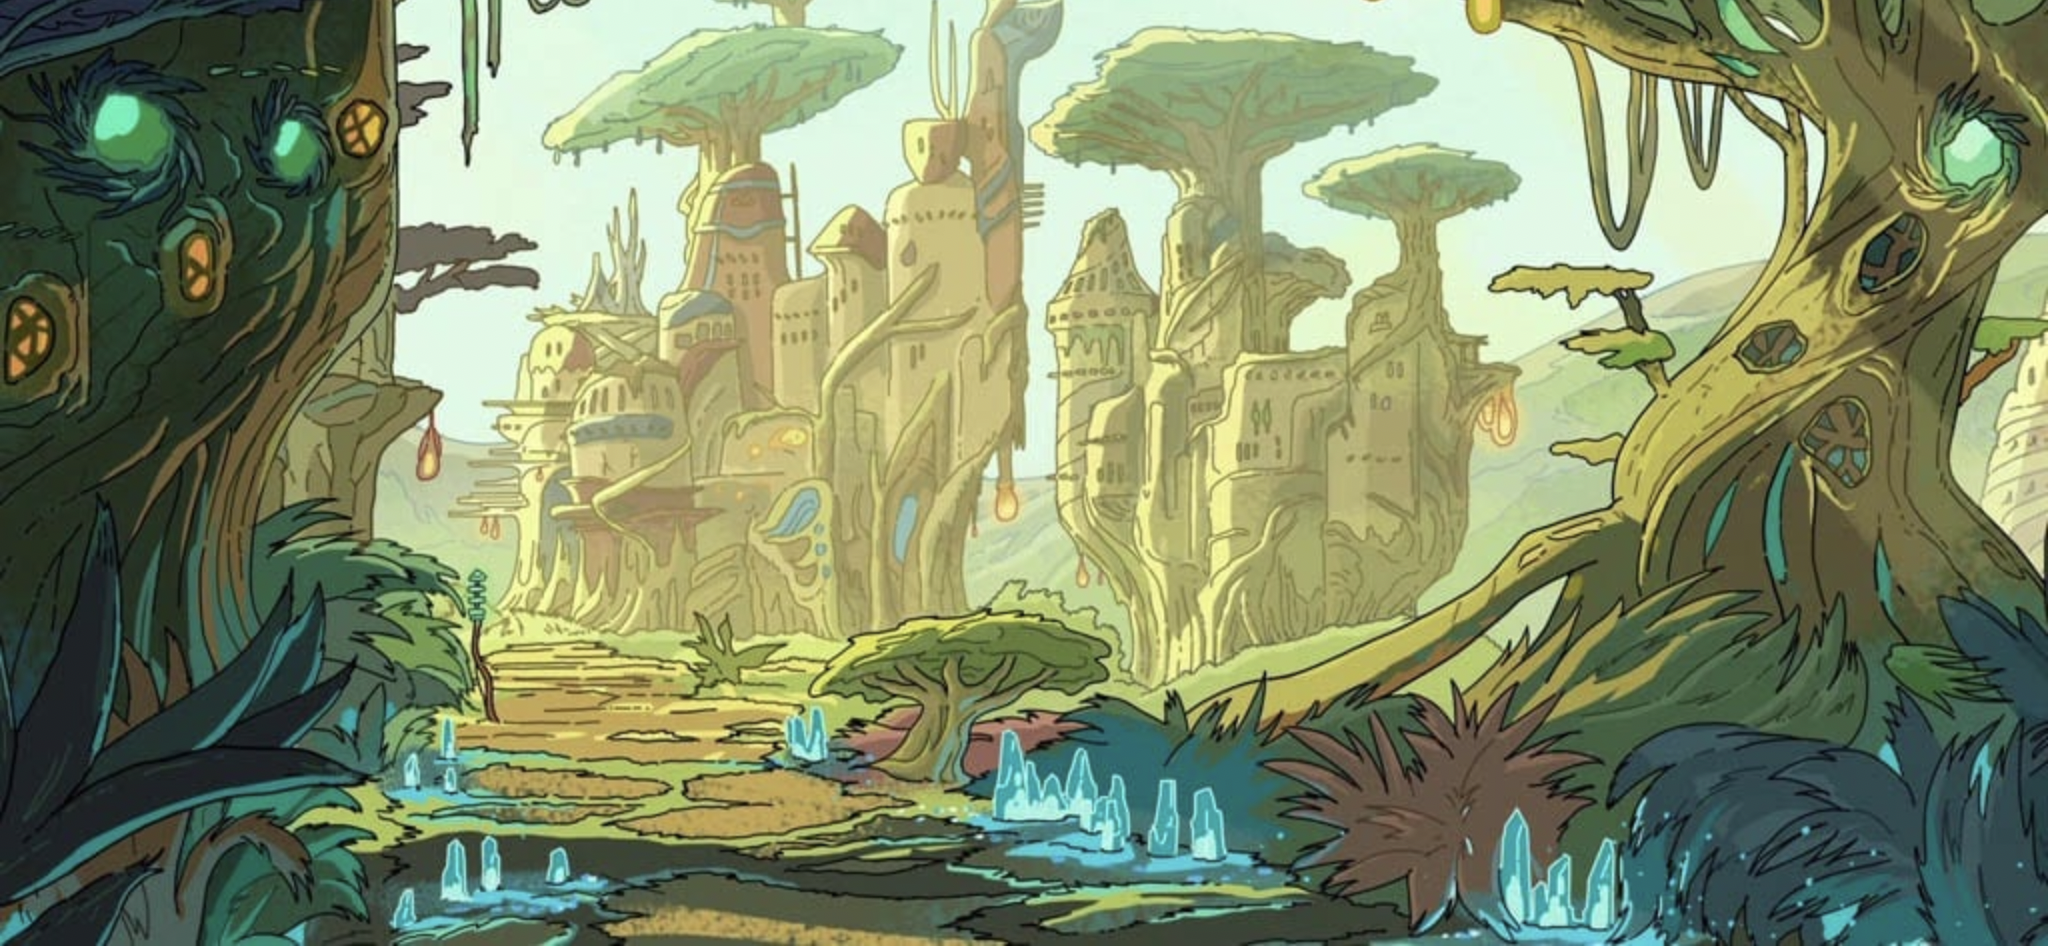
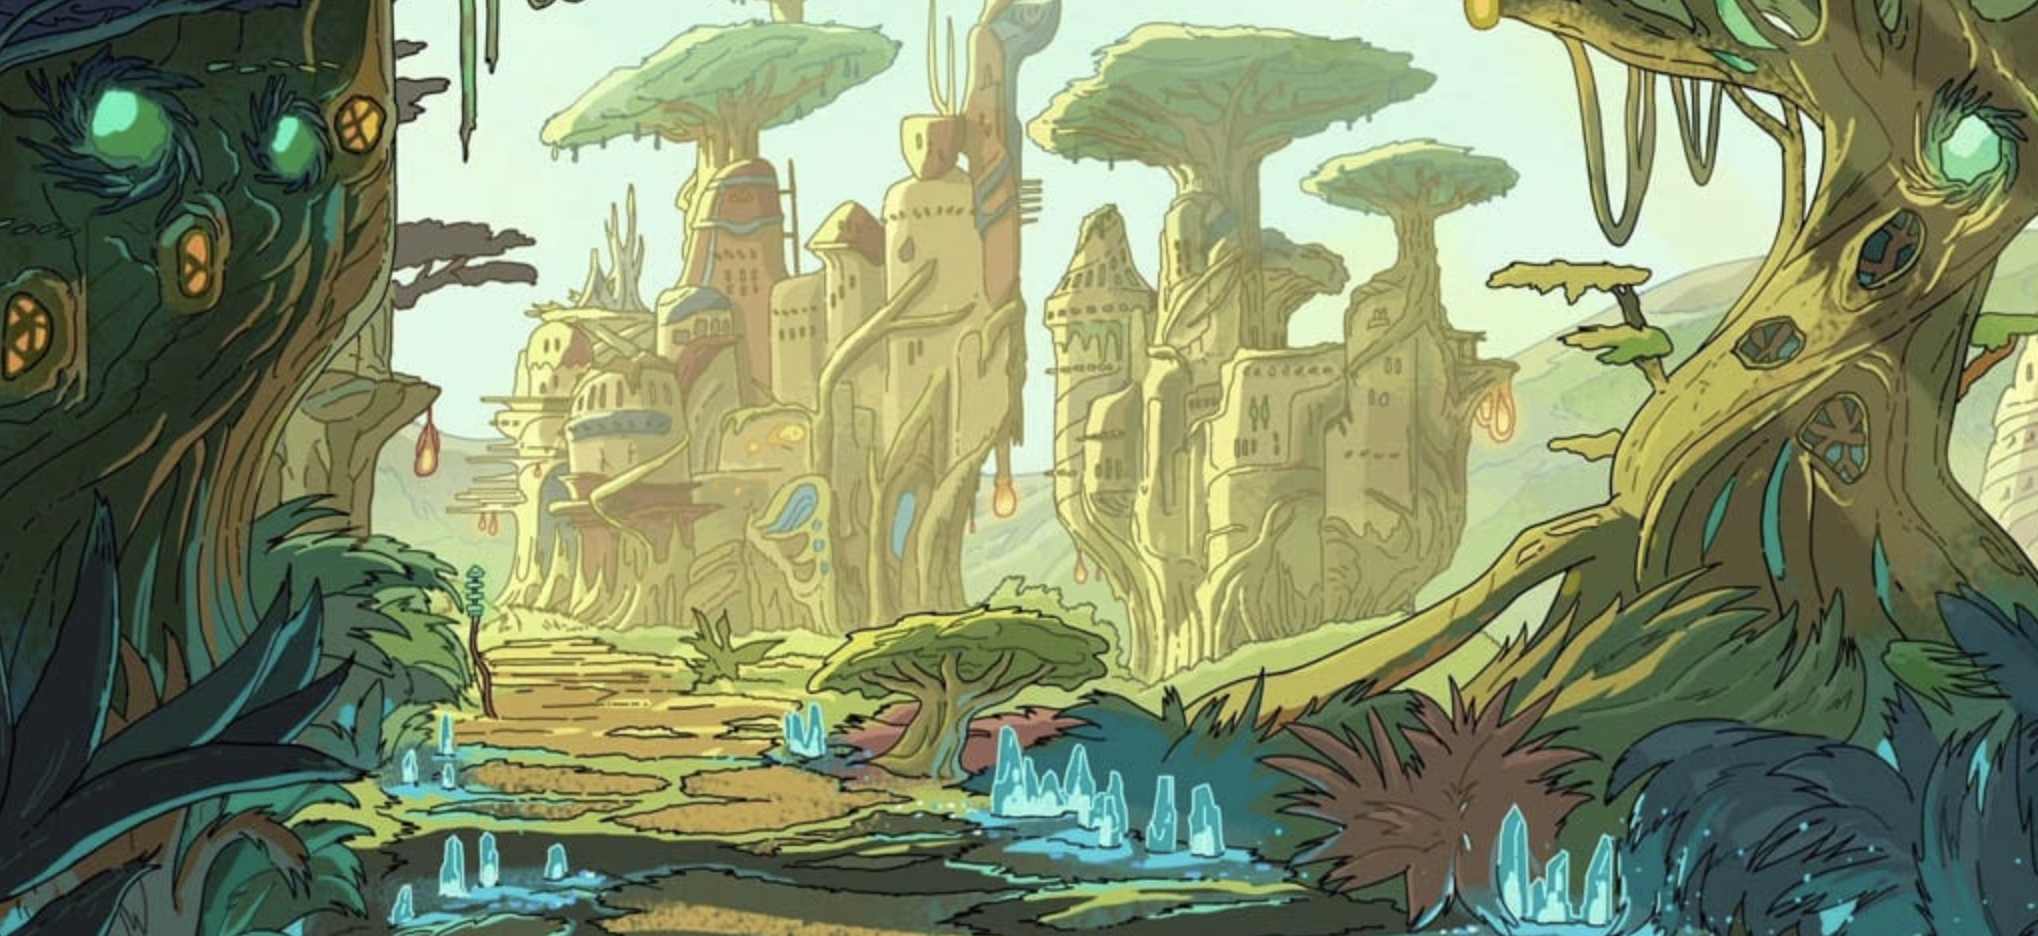
introduce home page styling

diff --git a/src/Components/Slider.js b/src/Components/Slider.js
@@ -39,7 +39,7 @@ const Slider = () => {
               <h4>
                 <Link to={`${url}`}>{name}</Link>
               </h4>
-              <p>{description}</p>
+              <p className='description'>{description}</p>
             </article>
           )
         })}
@@ -65,10 +65,11 @@ const Slider = () => {
 export default Slider
 
 const Wrapper = styled.section`
-  margin-bottom: 1rem;
+  padding-bottom: 4rem;
+  color: beige;
   .center {
     margin: 0 auto;
-    background-color: rgba(47, 47, 46, 0.4);
+    background-color: rgba(47, 47, 46, 0.7);
     border-radius: 1rem;
     margin-top: 3rem;
     width: 80vw;
@@ -87,6 +88,10 @@ const Wrapper = styled.section`
     object-fit: cover;
     border: 4px solid var(--clr-grey-8);
     box-shadow: var(--dark-shadow);
+  }
+
+  .description {
+    color: beige;
   }
 
   .prev,

diff --git a/src/Pages/Home.js b/src/Pages/Home.js
@@ -1,13 +1,31 @@
 import React from 'react'
 import Slider from '../Components/Slider'
+import styled from 'styled-components'
+import background8 from '../Images/background8.png'
 
 const Home = () => {
   return (
-    <div>
-      Home Component
+    <Wrapper>
+      <h3 className='home-title'>Welcome to Rick and Morty App!</h3>
       <Slider />
-    </div>
+    </Wrapper>
   )
 }
 
 export default Home
+
+const Wrapper = styled.section`
+  color: beige;
+  text-align: center;
+  padding-top: 1rem;
+  background-image: url(${background8});
+  background-size: cover;
+
+  .home-title {
+    background-color: rgba(47, 47, 46, 0.8);
+    width: fit-content;
+    margin: 0 auto;
+    padding: 1rem;
+    border-radius: 1rem;
+  }
+`

diff --git a/src/utils/sliderOptions.js b/src/utils/sliderOptions.js
@@ -1,6 +1,7 @@
 import background3 from '../Images/background3.png'
 import background5 from '../Images/background5.png'
 import background6 from '../Images/background6.png'
+import background7 from '../Images/background7.png'
 
 export const slidesInfo = [
   {
@@ -8,7 +9,7 @@ export const slidesInfo = [
     name: 'Home',
     description:
       'Welcome to Rick and Morty app, have a look at all your favorite characters, episodes and locations',
-    image: background3,
+    image: background7,
     url: '/',
   },
   {
